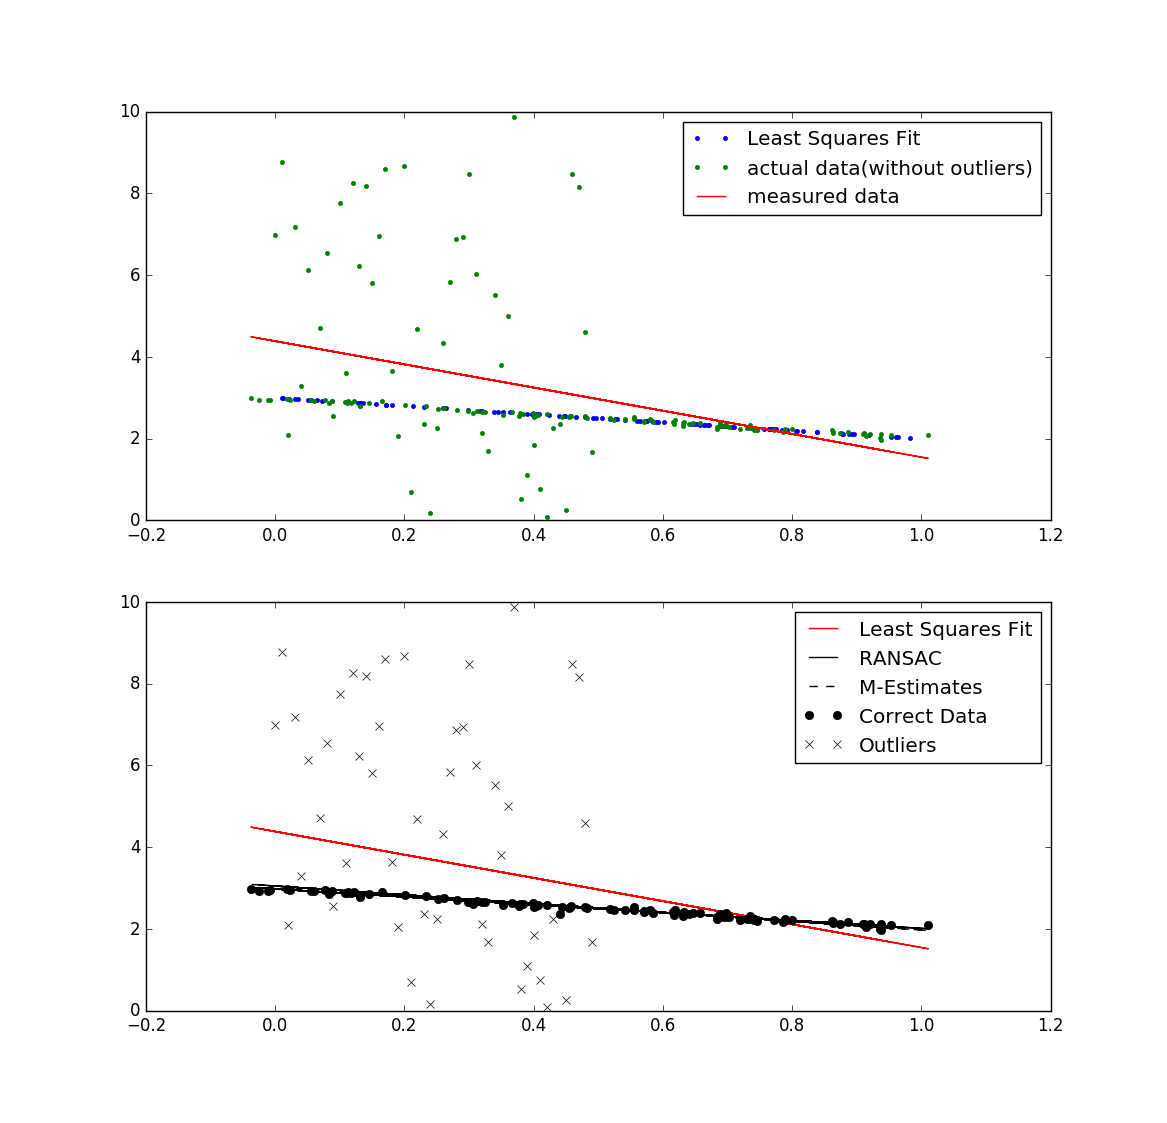
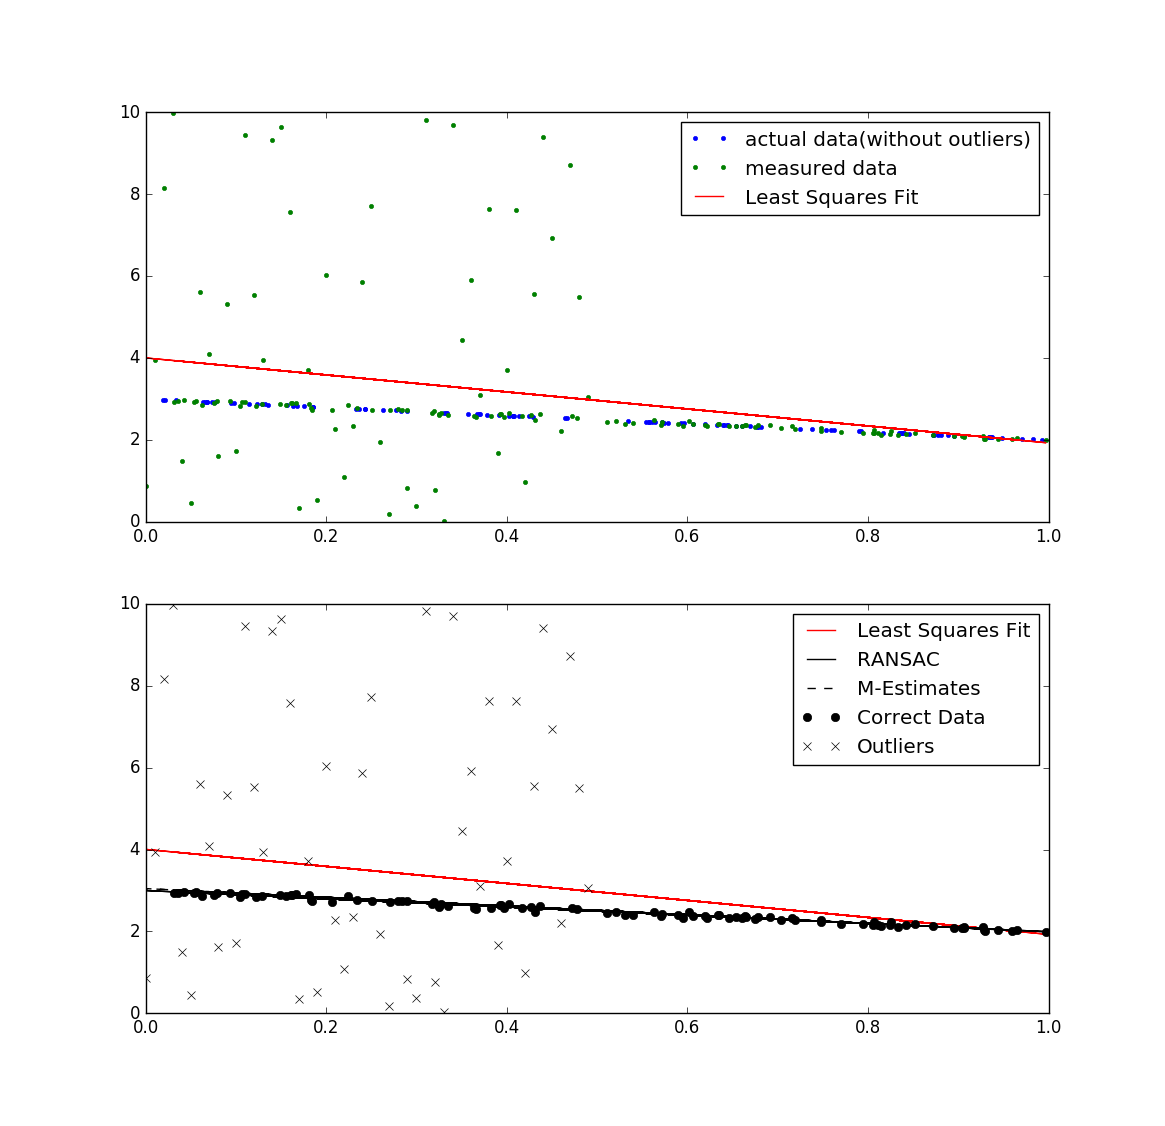
fixed plot

diff --git a/test.py b/test.py
@@ -45,7 +45,7 @@ if __name__ == "__main__":
     plt.plot(x_actual, y_actual, '.b')
     plt.plot(x_measured, y_measured, '.g')
     plt.plot(x_measured, x_measured * sol_lsq.x[0] + sol_lsq.x[1], 'r')
-    plt.legend(['Least Squares Fit','actual data(without outliers)', 'measured data'])
+    plt.legend(['actual data(without outliers)','measured data','Least Squares Fit'])
 
     plt.subplot(2,1,2)
     #plt.plot(x_measured, y_measured, '.g')
